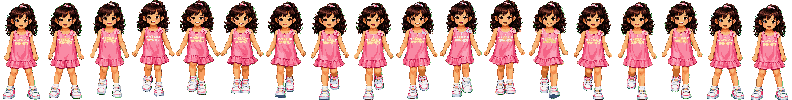
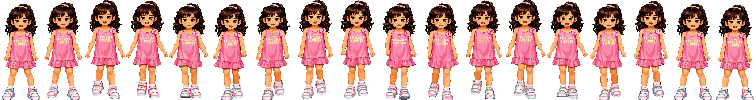
La pantalla de selección igualaba a las ocho, y encima por lo anchas que eran
Helen es la más baja de las ocho y salía del mismo tamaño que Sofi, que es la
más alta: la pantalla decía lo contrario de lo que dice el juego. El retrato
se encajaba en su hueco, y el lienzo del retrato mide 340x760 para todas, así
que todas salían llenándolo.

Y había algo peor debajo. Lo que decidía el tamaño no era la estatura: era el
ANCHO. El recorte encaja la figura en el lienzo por el lado que se quede
corto, así que a una figura ancha manda su anchura y le sobra aire arriba —
Sara ocupa 680 de los 760 y llevaba saliendo un 10% más baja que las demás
sin que nadie lo hubiera decidido.

Faltaba un dato y estaba calculado pero no publicado: cuánto mide la FIGURA
dentro del lienzo. Ahora sale en el atlas, y con eso más el alto del sprite
del mundo —que es donde vive la estatura— la más alta llena el hueco y las
demás bajan en proporción, todas con los pies en la misma línea. No se
escribe aquí una segunda tabla de alturas: dos listas de lo mismo se separan
a la primera que se toque una.

De paso entran el GIF nuevo de Helen, que la deja en 41 de ancho en vez de
70, y el de Julie.

Claude-Session: https://claude.ai/code/session_016RbRENmcz8mnG6uoihvh4d

diff --git a/js/ui/pantallas.js b/js/ui/pantallas.js
@@ -783,6 +783,31 @@ function dibujarHuecoVacio(ctxUi, v, indice, t) {
   ctxUi.restore();
 }
 
+// LA ESTATURA DE UN HÉROE, DE 0 A 1, con la más alta valiendo 1.
+//
+// Sale del alto de su sprite del mundo, que es donde vive la estatura de
+// verdad (`alto` en la tabla $PERSONAJES de herramientas/procesar-assets.ps1:
+// Helen 23, Julie 25, Say y los cuatro de siempre 26, Sofi 28). No se escribe
+// aquí una segunda tabla con las mismas ocho alturas: dos listas de lo mismo
+// se separan a la primera que se toque una.
+//
+// Se normaliza contra la MÁS ALTA y no contra un número fijo para que la más
+// alta llene su hueco entera. Con un valor fijo, el día que alguien crezca por
+// encima de él se saldría del marco.
+let _estaturaMayor = 0;
+
+function factorEstatura(def) {
+  const meta = Recursos.meta(def.sprite);
+  if (!meta) return 1;
+  if (!_estaturaMayor) {
+    for (let i = 0; i < ORDEN_PERSONAJES.length; i++) {
+      const otro = Recursos.meta(PERSONAJES[ORDEN_PERSONAJES[i]].sprite);
+      if (otro && otro.h > _estaturaMayor) _estaturaMayor = otro.h;
+    }
+  }
+  return _estaturaMayor ? meta.h / _estaturaMayor : 1;
+}
+
 function dibujarRetrato(ctxUi, r, p, ocupante, t) {
   const id = ORDEN_PERSONAJES[p];
   const def = PERSONAJES[id];
@@ -814,16 +839,38 @@ function dibujarRetrato(ctxUi, r, p, ocupante, t) {
   }
 
   if (img) {
-    // Encaje "contener" y APOYADO EN EL SUELO del hueco que le queda, que no es
-    // el marco entero: arriba manda el nombre y abajo el cuadro del arma (ver
-    // dibujarTarjeta). El retrato viene a 340x760 y el marco es de proporción
-    // más ancha, así que manda el alto y sobra aire a los lados. No se estira
-    // nunca, y si algún día llega un dibujo más ancho, se estrechará solo.
+    // APOYADO EN EL SUELO del hueco que le queda, que no es el marco entero:
+    // arriba manda el nombre y abajo el cuadro del arma (ver dibujarTarjeta).
+    //
+    // Y CADA UNA CON SU ESTATURA. Antes se encajaba el lienzo del retrato en el
+    // hueco, y eso igualaba a las ocho: el lienzo mide 340x760 para todas, así
+    // que todas salían llenándolo. Con Helen —que es la más baja de las ocho—
+    // puesta al lado de Sofi —la más alta— la pantalla decía lo contrario de lo
+    // que dice el juego.
+    //
+    // Peor todavía: lo que decidía el tamaño no era la estatura, era LO ANCHA
+    // que fuera cada una. El recorte encaja la figura en el lienzo por el lado
+    // que se quede corto, así que a una figura ancha manda su ancho y le sobra
+    // aire arriba: Sara ocupaba 680 de los 760 y salía un 10% más baja que las
+    // demás sin que nadie lo hubiera decidido.
+    //
+    // Se arregla con los dos datos de verdad, los dos del atlas: `alto` de la
+    // entrada Cuerpo dice cuánto mide la FIGURA dentro del lienzo, y el alto
+    // del sprite del mundo es la estatura. La más alta llena el hueco y las
+    // demás bajan en proporción.
     const hueco = r.h - BANDA_NOMBRE - BANDA_ARMA;
-    const esc = Math.min(r.w * 0.94 / img.width, hueco / img.height);
+    const metaCuerpo = Recursos.meta(def.sprite + 'Cuerpo');
+    const figura = (metaCuerpo && metaCuerpo.alto) || img.height;
+    let esc = hueco * factorEstatura(def) / figura;
+    // Y que no se salga por los lados. Con estas ilustraciones no llega a
+    // pasar —son todas más altas que anchas— pero un dibujo futuro más ancho
+    // se estrecharía solo en vez de invadir el marco de al lado.
+    esc = Math.min(esc, r.w * 0.94 / img.width);
     const w = img.width * esc;
     const h = img.height * esc;
     const x = r.x + (r.w - w) / 2;
+    // El lienzo del retrato trae la figura apoyada en su borde de abajo, así
+    // que el borde de abajo del lienzo ES la línea del suelo.
     const y = r.y + BANDA_NOMBRE + hueco - h;
 
     ctxUi.save();
